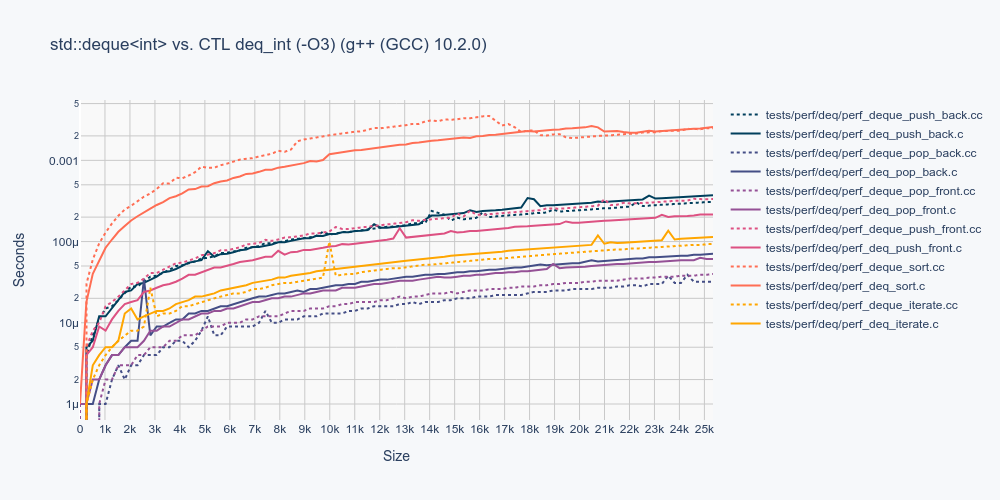
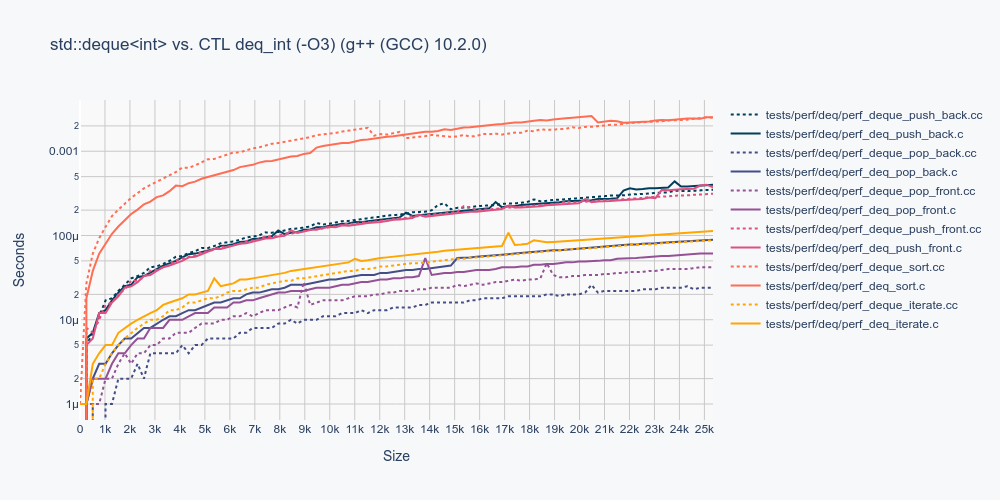
saturation fix

Changed region(s): [[0.031, 0.21, 0.713, 0.84]]

diff --git a/ctl/ust.h b/ctl/ust.h
@@ -12,6 +12,8 @@
 #define B JOIN(A, node)
 #define I JOIN(A, it)
 
+#define LAST_PRIME (24607243)
+
 typedef struct B
 {
     T key;
@@ -28,6 +30,7 @@ typedef struct A
     B** bucket;
     size_t size;
     size_t bucket_count;
+    int saturated;
 }
 A;
 
@@ -183,11 +186,10 @@ JOIN(A, swap)(A* self, A* other)
     *other = temp;
 }
 
-size_t
+static inline size_t
 JOIN(A, closest_prime)(size_t number)
 {
     static size_t primes[] = {
-        // Obtained experimentally by calling unordered_set::resize() and printing unordered_set::bucket_count().
         2, 3, 5, 7, 11, 13, 17, 19, 23, 29, 31, 37, 41, 43, 47, 53, 59, 61, 67, 71, 73, 79, 83, 89, 97, 
         103, 109, 113, 127, 137, 139, 149, 157, 167, 179, 193, 199, 211, 227, 241, 257, 277, 293, 313, 337, 
         359, 383, 409, 439, 467, 503, 541, 577, 619, 661, 709, 761, 823, 887, 953, 1031, 1109, 1193, 1289, 1381, 
@@ -199,7 +201,7 @@ JOIN(A, closest_prime)(size_t number)
         480881, 520241, 562841, 608903, 658753, 712697, 771049, 834181, 902483, 976369, 1056323, 1142821, 1236397, 1337629,
         1447153, 1565659, 1693859, 1832561, 1982627, 2144977, 2320627, 2510653, 2716249, 2938679, 3179303, 3439651, 3721303,
         4026031, 4355707, 4712381, 5098259, 5515729, 5967347, 6456007, 6984629, 7556579, 8175383, 8844859, 9569143, 10352717,
-        11200489, 12117689, 13109983, 14183539, 15345007, 16601593, 17961079, 19431899, 21023161, 22744717, 24607243, 
+        11200489, 12117689, 13109983, 14183539, 15345007, 16601593, 17961079, 19431899, 21023161, 22744717, LAST_PRIME
     };
     size_t min = primes[0];
     if(number < min)
@@ -212,7 +214,7 @@ JOIN(A, closest_prime)(size_t number)
         if(number >= a && number <= b)
             return number == a ? a : b;
     }
-    return primes[size - 1];
+    return LAST_PRIME;
 }
 
 static inline B*
@@ -270,34 +272,42 @@ JOIN(A, rehash)(A* self, size_t desired_count);
 static inline void
 JOIN(A, reserve)(A* self, size_t desired_count)
 {
-    if(self->size > 0)
-        JOIN(A, rehash)(self, desired_count);
-    else
+    if(!self->saturated)
     {
-        size_t bucket_count = JOIN(A, closest_prime)(desired_count);
-        B** temp = (B**) calloc(bucket_count, sizeof(B*));
-        for(size_t i = 0; i < self->bucket_count; i++)
-            temp[i] = self->bucket[i];
-        free(self->bucket);
-        self->bucket = temp;
-        self->bucket_count = bucket_count;
+        if(self->size > 0)
+            JOIN(A, rehash)(self, desired_count);
+        else
+        {
+            size_t bucket_count = JOIN(A, closest_prime)(desired_count);
+            B** temp = (B**) calloc(bucket_count, sizeof(B*));
+            for(size_t i = 0; i < self->bucket_count; i++)
+                temp[i] = self->bucket[i];
+            free(self->bucket);
+            self->bucket = temp;
+            self->bucket_count = bucket_count;
+            if(bucket_count == LAST_PRIME)
+                self->saturated = 1;
+        }
     }
 }
 
 static inline void
 JOIN(A, rehash)(A* self, size_t desired_count)
 {
-    A rehashed = JOIN(A, init)(self->hash, self->equal);
-    if(desired_count <= self->size)
-        desired_count = self->size + 1;
-    JOIN(A, reserve)(&rehashed, desired_count);
-    foreach(A, self, it)
+    if(!self->saturated)
     {
-        B** bucket = JOIN(A, bucket)(&rehashed, it.node->key);
-        JOIN(B, push)(&rehashed, bucket, it.node);
+        A rehashed = JOIN(A, init)(self->hash, self->equal);
+        if(desired_count <= self->size)
+            desired_count = self->size + 1;
+        JOIN(A, reserve)(&rehashed, desired_count);
+        foreach(A, self, it)
+        {
+            B** bucket = JOIN(A, bucket)(&rehashed, it.node->key);
+            JOIN(B, push)(&rehashed, bucket, it.node);
+        }
+        free(self->bucket);
+        *self = rehashed;
     }
-    free(self->bucket);
-    *self = rehashed;
 }
 
 static inline void
@@ -421,3 +431,5 @@ JOIN(A, copy)(A* self)
 #undef A
 #undef B
 #undef I
+
+#undef LAST_PRIME
